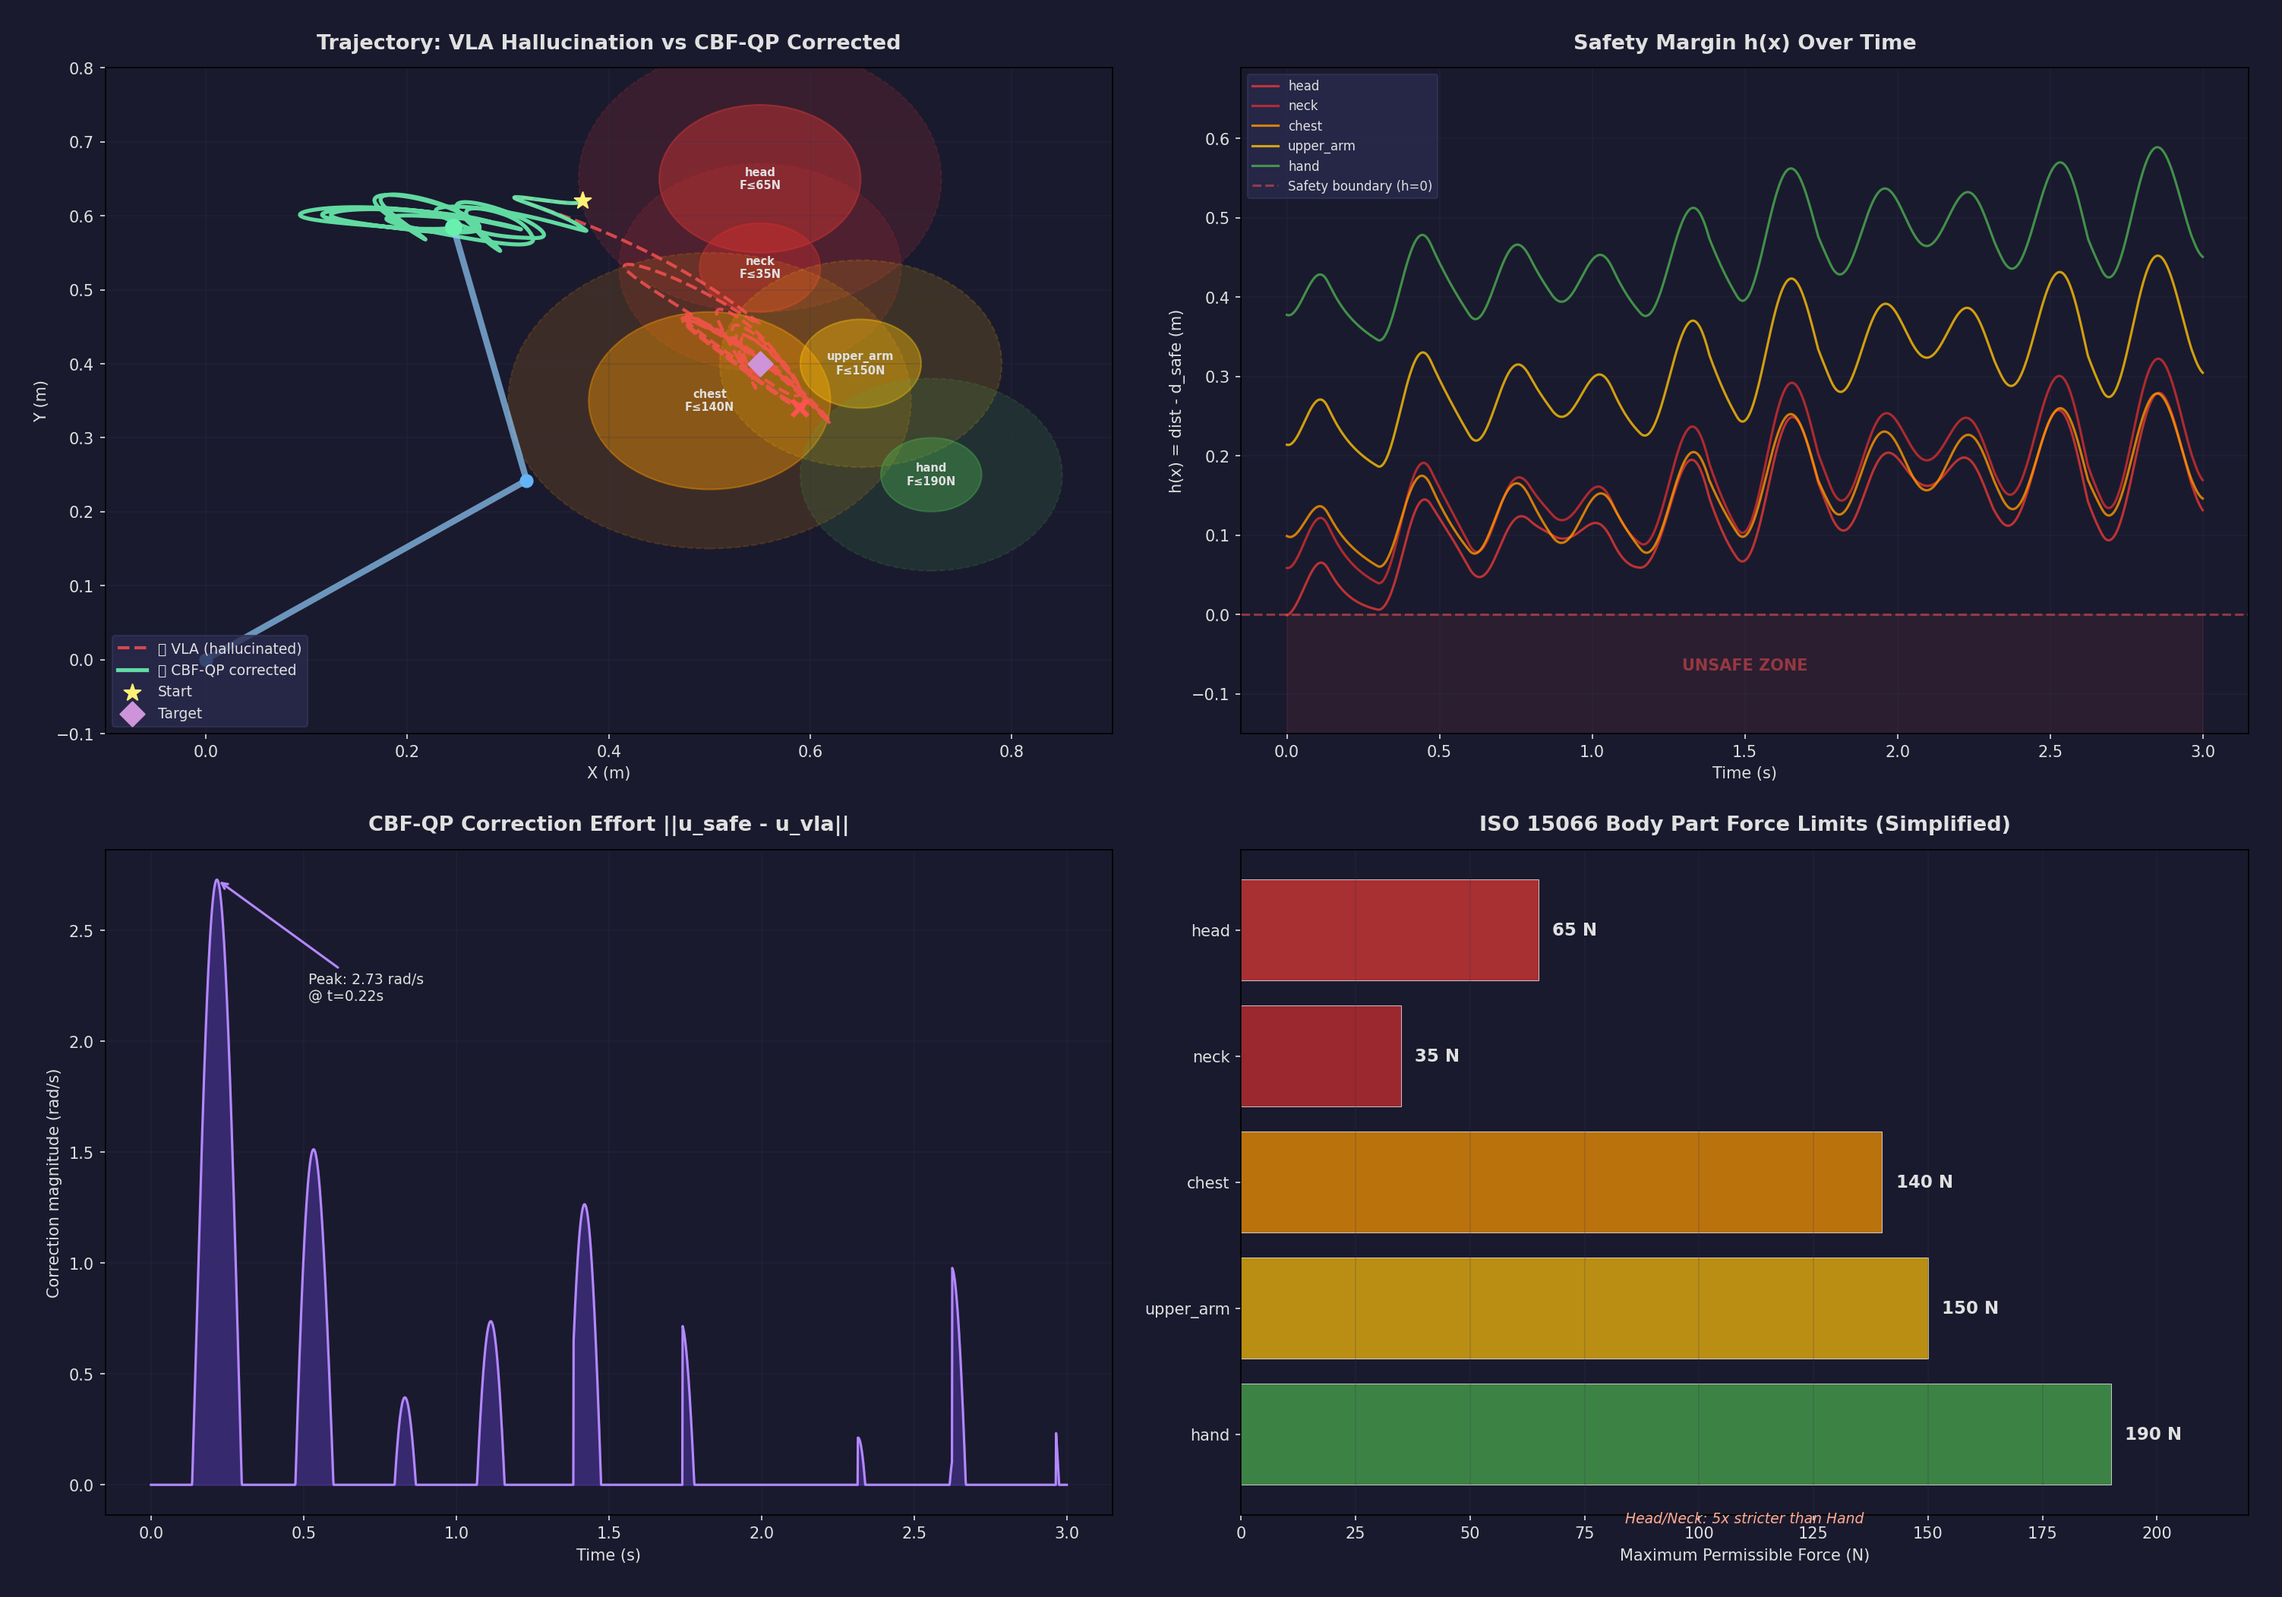
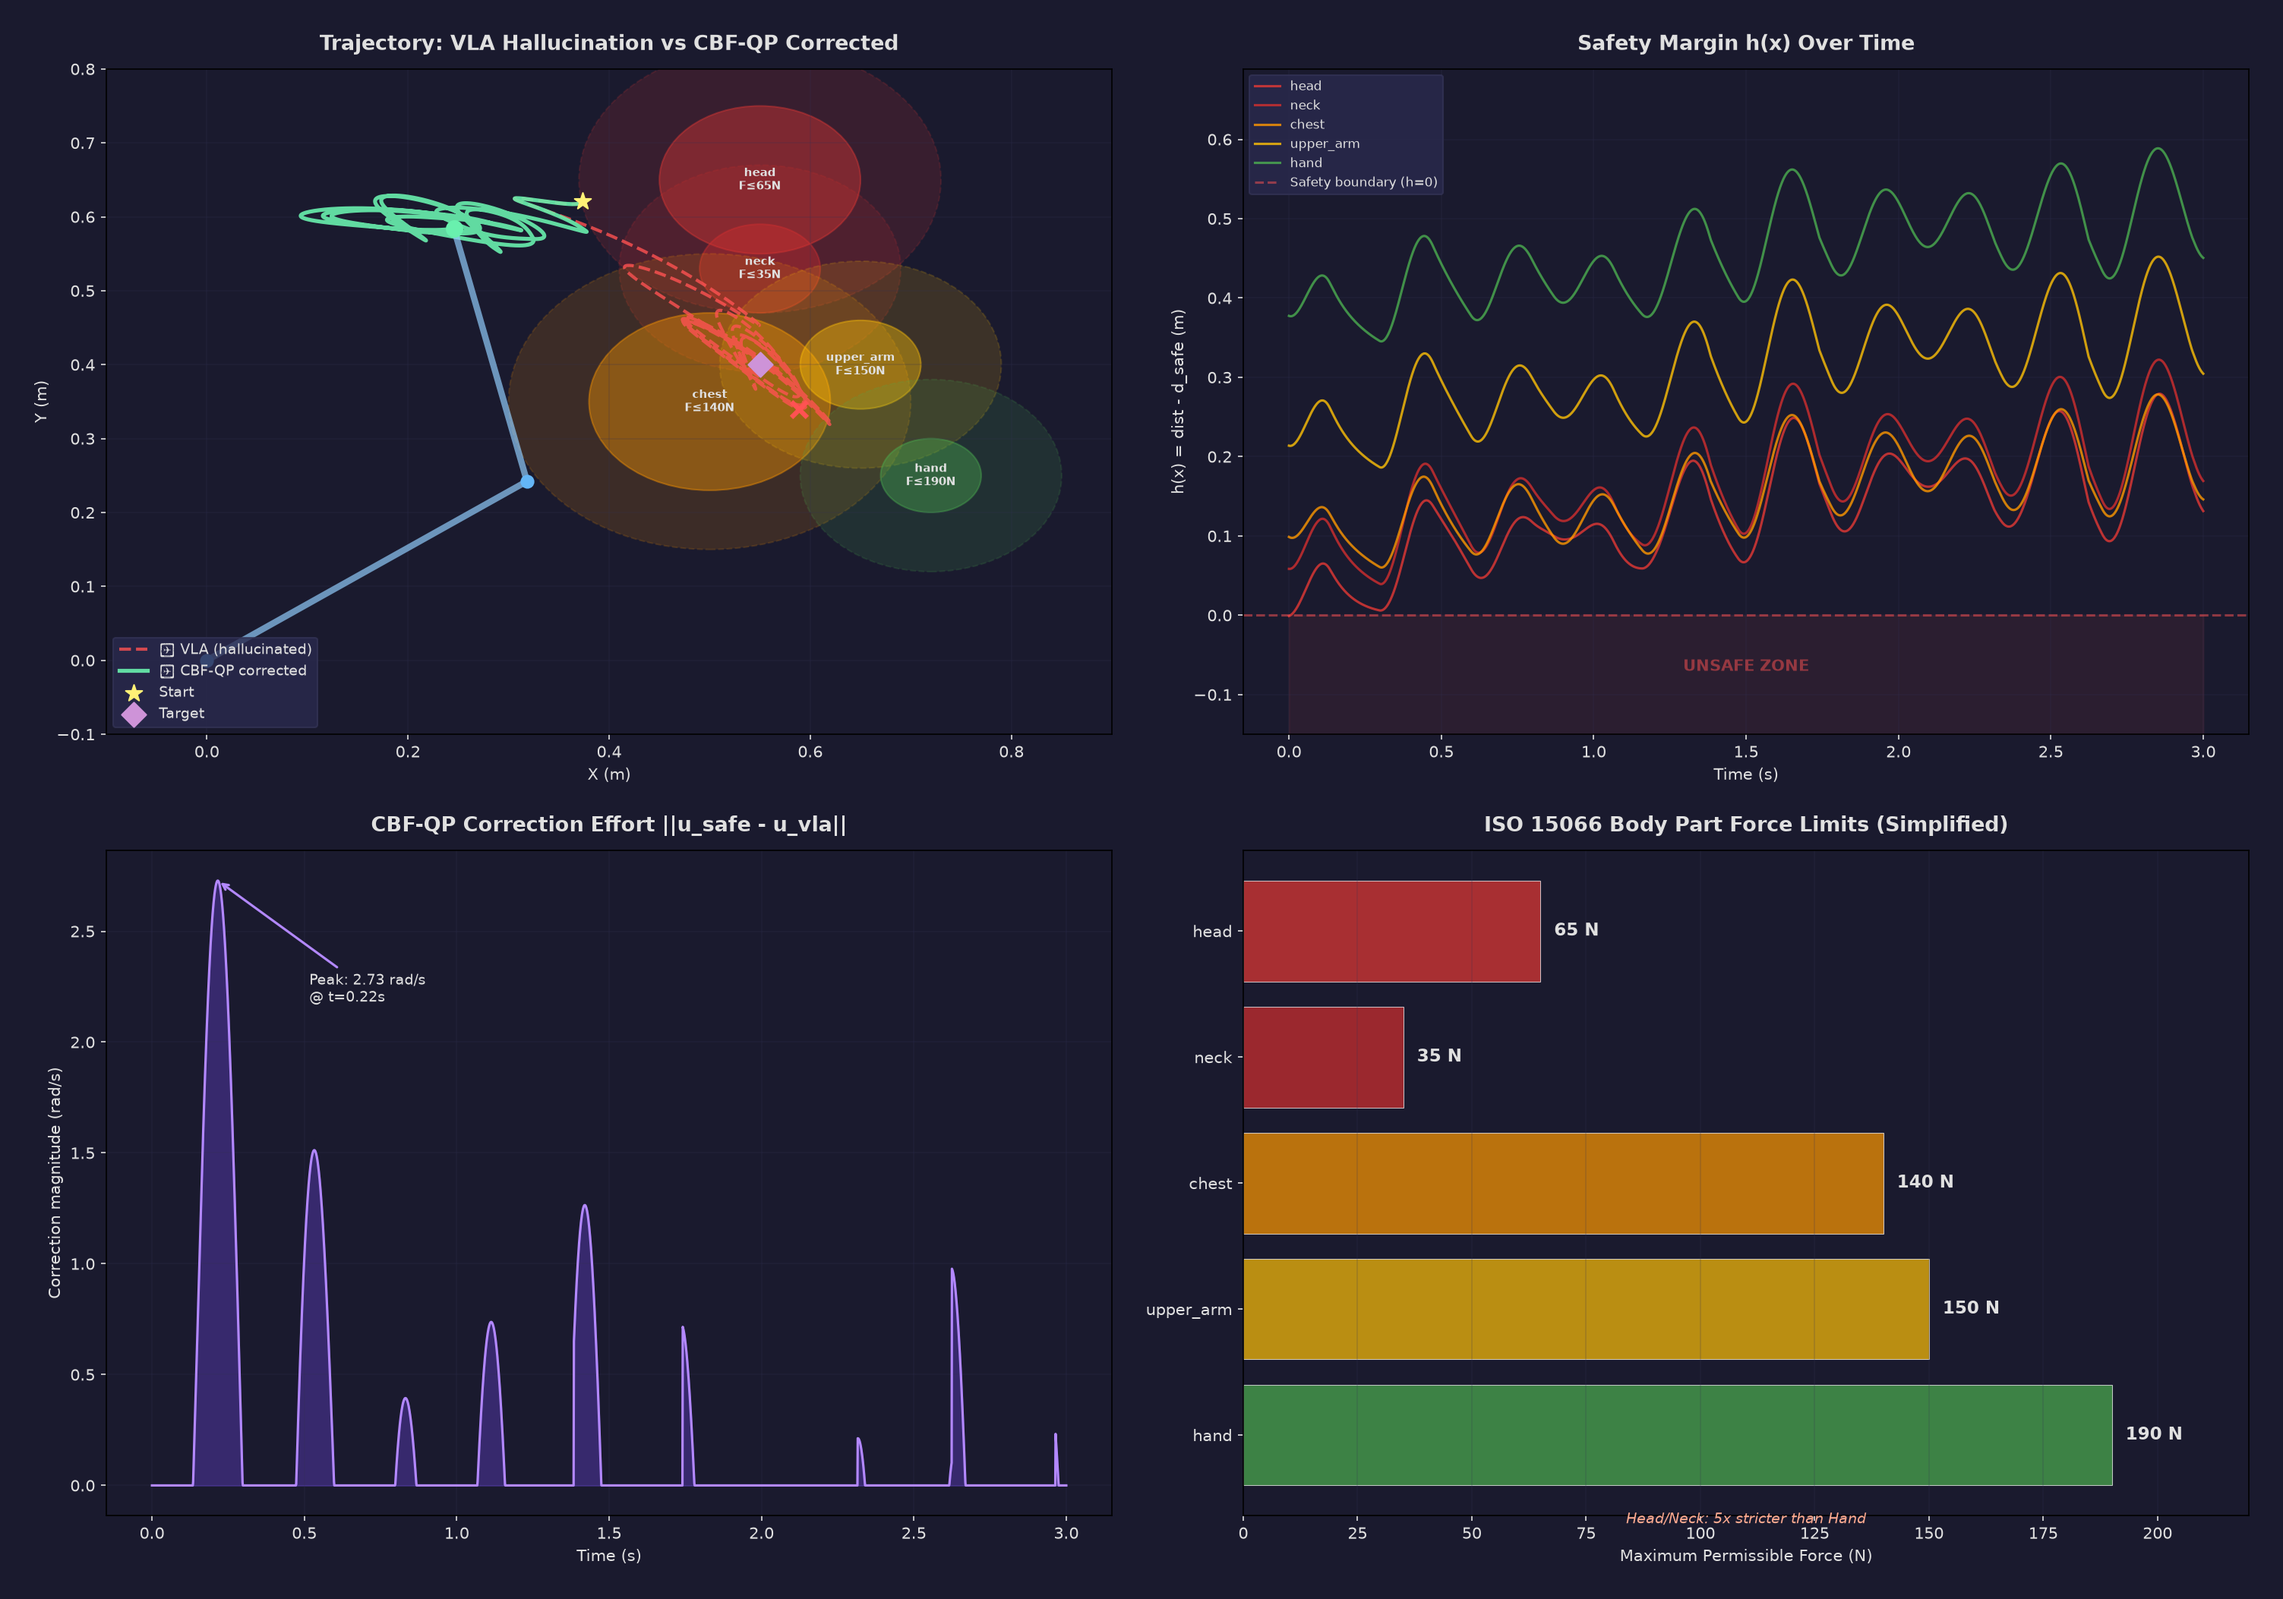
feat: implement GEO llms.txt, GitHub Actions CI, Dockerfile, and unit test suite

diff --git a/tests/test_cbf_qp.py b/tests/test_cbf_qp.py
@@ -1,0 +1,151 @@
+"""
+Unit tests for SafeGuard CBF-QP Safety Filter and Trajectory Constraints.
+"""
+
+import os
+import sys
+import unittest
+from unittest.mock import patch, MagicMock
+import numpy as np
+
+sys.path.insert(0, os.path.abspath(os.path.join(os.path.dirname(__file__), "..")))
+import safeguard_cbf_demo as cbf_demo
+from safeguard_cbf_demo import (
+    Config,
+    forward_kinematics,
+    jacobian,
+    cbf_constraint,
+    cbf_qp_filter,
+    generate_vla_trajectory,
+    run_simulation,
+)
+
+
+class TestKinematicsAndJacobian(unittest.TestCase):
+    def test_forward_kinematics(self):
+        # Angle [0, 0] -> arm fully extended along x-axis
+        q = np.array([0.0, 0.0])
+        ee = forward_kinematics(q)
+        expected_x = Config.LINK_LENGTHS[0] + Config.LINK_LENGTHS[1]
+        expected_y = 0.0
+        np.testing.assert_allclose(ee, [expected_x, expected_y], atol=1e-5)
+
+    def test_jacobian_finite_difference(self):
+        q = np.array([np.pi / 4, np.pi / 3])
+        J = jacobian(q)
+        
+        eps = 1e-6
+        J_num = np.zeros((2, 2))
+        for i in range(2):
+            q_plus = q.copy()
+            q_plus[i] += eps
+            q_minus = q.copy()
+            q_minus[i] -= eps
+            ee_plus = forward_kinematics(q_plus)
+            ee_minus = forward_kinematics(q_minus)
+            J_num[:, i] = (ee_plus - ee_minus) / (2 * eps)
+            
+        np.testing.assert_allclose(J, J_num, atol=1e-4)
+
+
+class TestQPSolverBoundaryConditions(unittest.TestCase):
+    def test_inactive_constraints_passthrough(self):
+        # Position far away from any obstacle
+        q = np.array([-np.pi / 2, 0.0])  # End-effector pointing downwards, far from body parts
+        dq_vla = np.array([1.0, -0.5])
+        
+        dq_safe, corrections = cbf_qp_filter(q, dq_vla)
+        
+        # When no constraints are active, dq_safe should be identical to dq_vla
+        np.testing.assert_allclose(dq_safe, dq_vla, atol=1e-5)
+        self.assertEqual(len(corrections), 0)
+
+    def test_active_constraint_modification(self):
+        # Position near the head obstacle where dq_vla moves directly into the head
+        q = np.array([0.8, 0.5])
+        ee = forward_kinematics(q)
+        head_pos = Config.BODY_PARTS['head']['pos']
+        head_radius = Config.BODY_PARTS['head']['radius']
+        
+        # Unsafe direction (moving towards head)
+        J = jacobian(q)
+        diff = head_pos - ee
+        dq_unsafe = J.T @ diff  # velocity towards head
+        
+        dq_safe, corrections = cbf_qp_filter(q, dq_unsafe)
+        
+        # Verify that dq_safe was modified to satisfy the CBF inequality constraint
+        h, constraint_val = cbf_constraint(q, dq_safe, head_pos, head_radius)
+        self.assertGreaterEqual(constraint_val, -1e-4)
+
+    def test_velocity_limit_bounds(self):
+        q = np.array([0.1, 0.1])
+        dq_extreme = np.array([10.0, -10.0])  # Exceeds [-5.0, 5.0] bounds
+        
+        dq_safe, _ = cbf_qp_filter(q, dq_extreme)
+        
+        self.assertTrue(np.all(dq_safe >= -5.0 - 1e-5))
+        self.assertTrue(np.all(dq_safe <= 5.0 + 1e-5))
+
+    def test_solver_failure_fallback(self):
+        q = np.array([0.5, 0.5])
+        dq_vla = np.array([2.0, -1.0])
+        
+        # Mock scipy minimize to simulate solver failure
+        fake_result = MagicMock()
+        fake_result.success = False
+        
+        with patch('safeguard_cbf_demo.minimize', return_value=fake_result):
+            dq_safe, _ = cbf_qp_filter(q, dq_vla)
+            # Fallback policy reduces speed by 50%
+            np.testing.assert_allclose(dq_safe, dq_vla * 0.5, atol=1e-5)
+
+
+class TestTrajectoryConstraintViolations(unittest.TestCase):
+    def test_cbf_constraint_calculation(self):
+        q = np.array([0.5, 0.5])
+        dq = np.array([0.1, 0.1])
+        body_pos = np.array([0.5, 0.5])
+        body_radius = 0.1
+        
+        h, constraint_val = cbf_constraint(q, dq, body_pos, body_radius)
+        ee = forward_kinematics(q)
+        expected_h = np.dot(ee - body_pos, ee - body_pos) - (body_radius + Config.D_SAFE) ** 2
+        
+        self.assertAlmostEqual(h, expected_h, places=5)
+
+    def test_vla_trajectory_generator_modes(self):
+        q_start = np.array([np.pi/4, np.pi/6])
+        target = np.array([0.55, 0.40])
+        n_steps = 100
+        
+        for mode in ['drift', 'sudden', 'oscillate']:
+            dq_seq = generate_vla_trajectory(
+                q_start, target, n_steps, hallucinate=True, hallucination_type=mode
+            )
+            self.assertEqual(dq_seq.shape, (n_steps, 2))
+            self.assertTrue(np.all(dq_seq >= -5.0))
+            self.assertTrue(np.all(dq_seq <= 5.0))
+
+    def test_simulation_safety_enforcement(self):
+        # Test drift scenario simulation results
+        results = run_simulation(hallucinate=True, hallucination_type='drift')
+        
+        # Unsafe trajectory should violate safety margins
+        ee_unsafe_final = results['traj_unsafe'][-1]
+        
+        # Check that CBF safety filter kept distance above critical thresholds
+        for name, h_vals in results['h_history'].items():
+            if h_vals:
+                min_h = min(h_vals)
+                # Minimum h value with CBF safety filter should remain near or above 0
+                self.assertGreater(min_h, -0.005, f"Constraint for {name} severely violated: {min_h}")
+
+    def test_correction_effort_recorded(self):
+        results = run_simulation(hallucinate=True, hallucination_type='sudden')
+        self.assertEqual(len(results['correction_norms']), int(Config.T_TOTAL / Config.DT))
+        self.assertTrue(np.any(results['correction_norms'] > 0))
+
+
+if __name__ == '__main__':
+    unittest.main()
